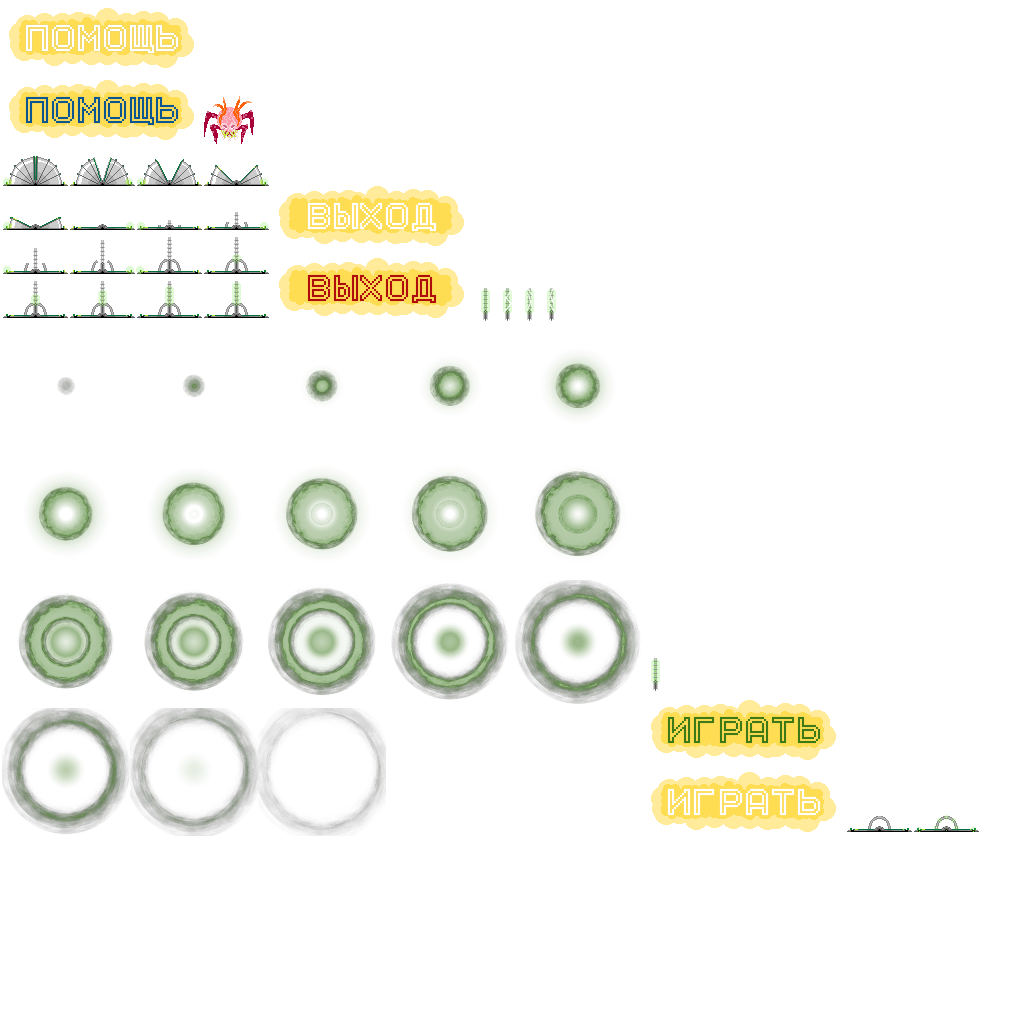
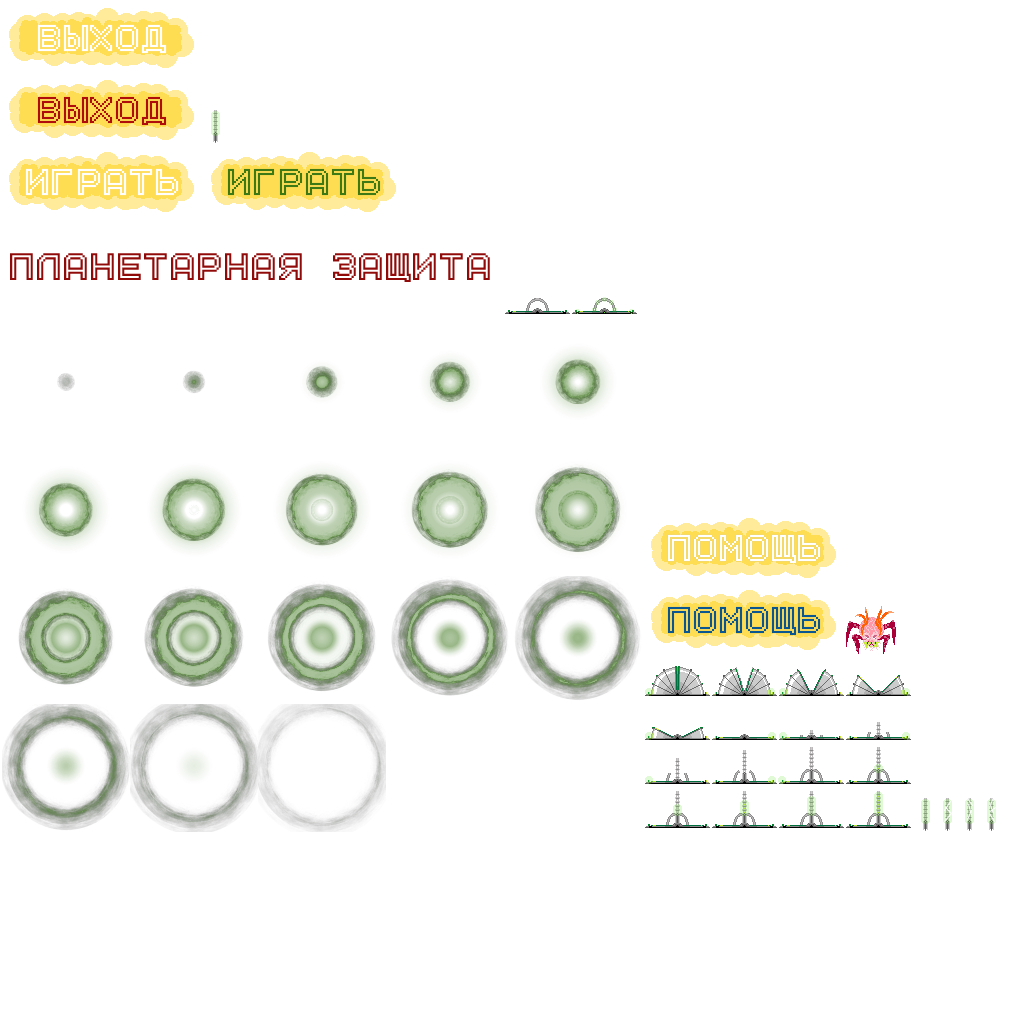
Lesson 5 main gametitle added

diff --git a/core/src/ru/johnnygomezzz/myproject/screens/MainMenu.java b/core/src/ru/johnnygomezzz/myproject/screens/MainMenu.java
@@ -17,6 +17,7 @@ import com.badlogic.gdx.utils.ScreenUtils;
 public class MainMenu implements Screen, InputProcessor {
     final Game game;
     SpriteBatch batch;
+    Sprite gameTitle;
     Sprite buttonPlay;
     Sprite buttonExit;
     TextureAtlas mainAtlas;
@@ -39,13 +40,17 @@ public class MainMenu implements Screen, InputProcessor {
 
         mainAtlas = new TextureAtlas("atlas/main.atlas");
 
+        gameTitle = new Sprite(mainAtlas.findRegion("title"));
+        gameTitle.setPosition(Gdx.graphics.getWidth() / 2f - gameTitle.getWidth() / 2f, Gdx.graphics.getHeight() - gameTitle.getHeight() - 50);
+
         buttonPlay = new Sprite(mainAtlas.findRegion("buttons-play"));
-        buttonPlay.setPosition(Gdx.graphics.getWidth() / 3f, Gdx.graphics.getHeight() - Gdx.graphics.getHeight() / 3f);
+        buttonPlay.setPosition(Gdx.graphics.getWidth() / 3f, Gdx.graphics.getHeight() - Gdx.graphics.getHeight() / 2f);
 
         buttonExit = new Sprite(mainAtlas.findRegion("buttons-exit"));
-        buttonExit.setPosition(Gdx.graphics.getWidth() / 3f, Gdx.graphics.getHeight() - Gdx.graphics.getHeight() / 3f - 100);
+        buttonExit.setPosition(Gdx.graphics.getWidth() / 3f, Gdx.graphics.getHeight() - Gdx.graphics.getHeight() / 2f - 100);
 
         batch.begin();
+        gameTitle.draw(batch);
         buttonPlay.draw(batch);
         buttonExit.draw(batch);
         batch.end();

diff --git a/core/src/ru/johnnygomezzz/myproject/screens/GameProcess.java b/core/src/ru/johnnygomezzz/myproject/screens/GameProcess.java
@@ -76,7 +76,7 @@ public class GameProcess implements Screen, InputProcessor {
         boolean fire = false;
         if (Gdx.input.isButtonPressed(Input.Buttons.LEFT)) {
             fire = true;
-        };
+        }
 
         shapeRenderer.begin(ShapeRenderer.ShapeType.Line);
         shapeRenderer.line(getPosition().x - 10, getPosition().y, getPosition().x + 10, getPosition().y);
@@ -129,7 +129,7 @@ public class GameProcess implements Screen, InputProcessor {
                 count++;
             }
         }
-        Gdx.graphics.setTitle("Подбито: " + String.valueOf(count));
+        Gdx.graphics.setTitle("Подбито: " + count);
 
         batch.begin();
         if (!bunkerAnimation.isFinished()) {
